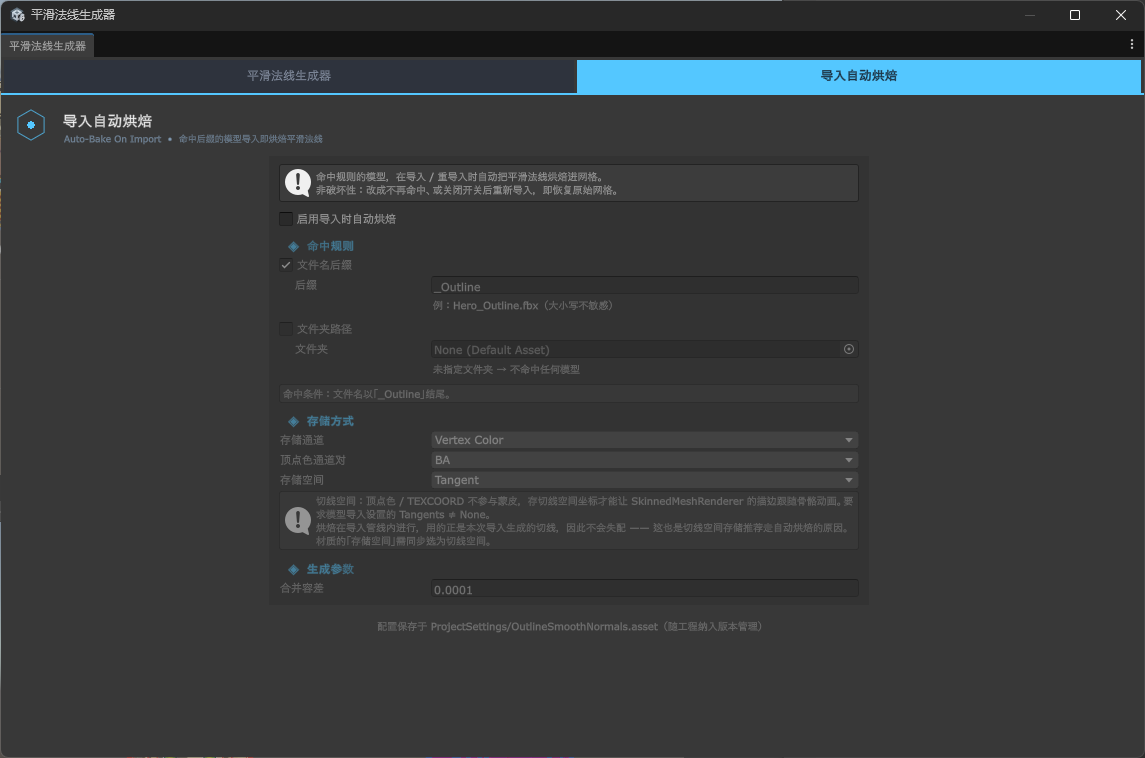
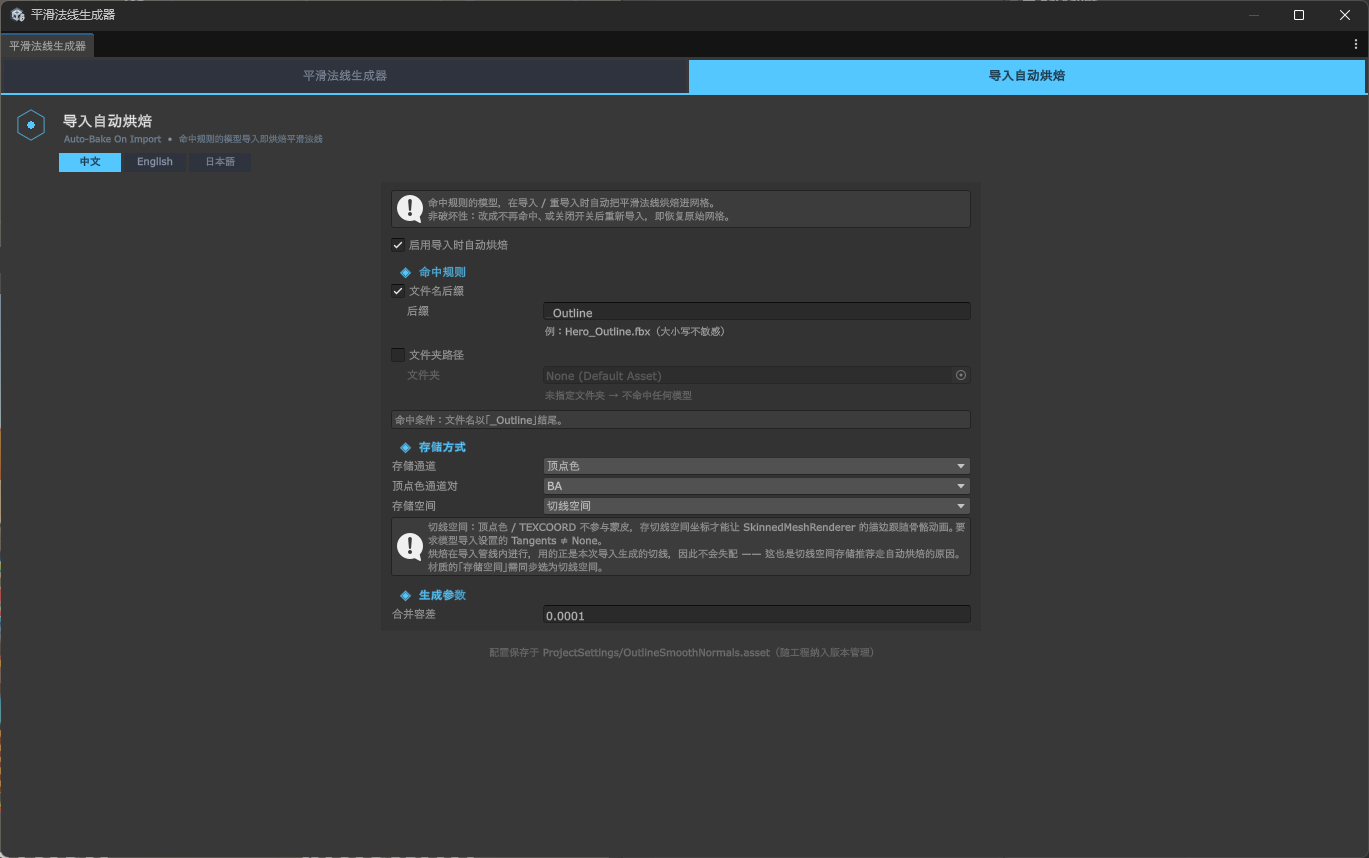
【使用文档】 截图更新。

diff --git a/Packages/com.alefeng.outlinesmoothnormalsgenerator/Editor/OutlineSmoothNormalsGeneratorWindow.cs b/Packages/com.alefeng.outlinesmoothnormalsgenerator/Editor/OutlineSmoothNormalsGeneratorWindow.cs
@@ -401,10 +401,10 @@ namespace OutlineSmoothNormalsGenerator
         /// 代价全部由预览视口承担：最小窗口（860）+ 初始分隔线（420）下视口由 202px
         /// 缩到 166px，把分隔线拖到下限 300 则回到 246px。
         /// </summary>
-        private const float PreviewParamPanelWidth = 600f;
+        private const float PreviewParamPanelWidth = 240f;
 
         /// <summary>预览视口再窄就没有意义了，分隔线的可拖范围以它为准。</summary>
-        private const float MinPreviewWidth = 300f;
+        private const float MinPreviewWidth = 80f;
 
         /// <summary>
         /// 右栏至少要留出的宽度 = 视口下限 + 定宽参数栏 + 两侧间隙，
